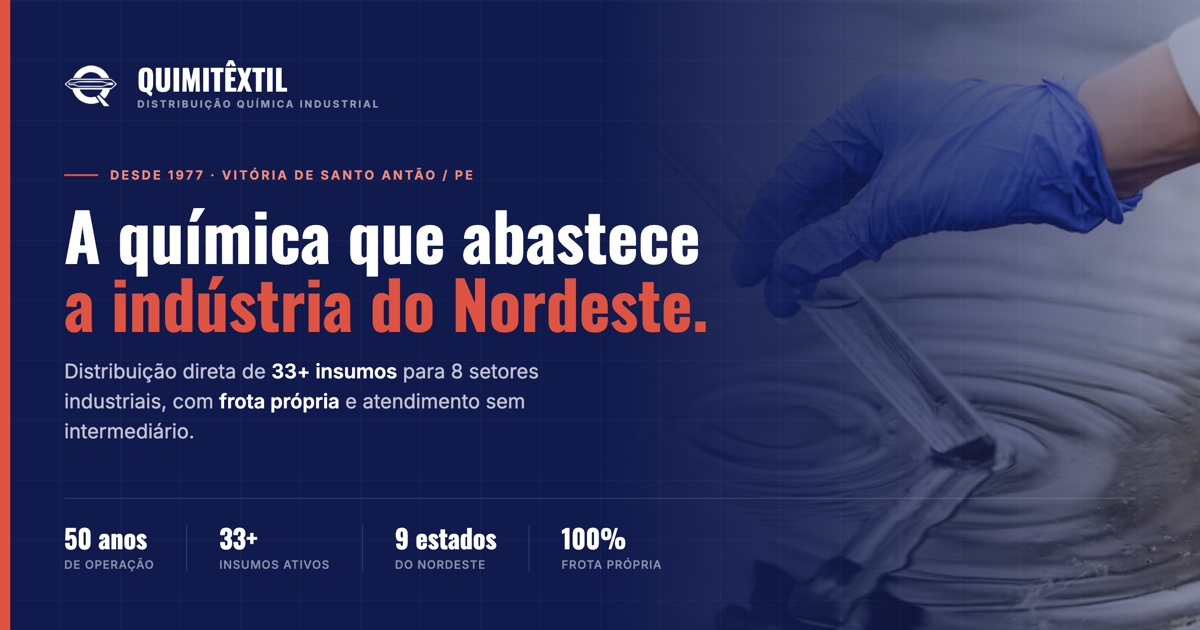
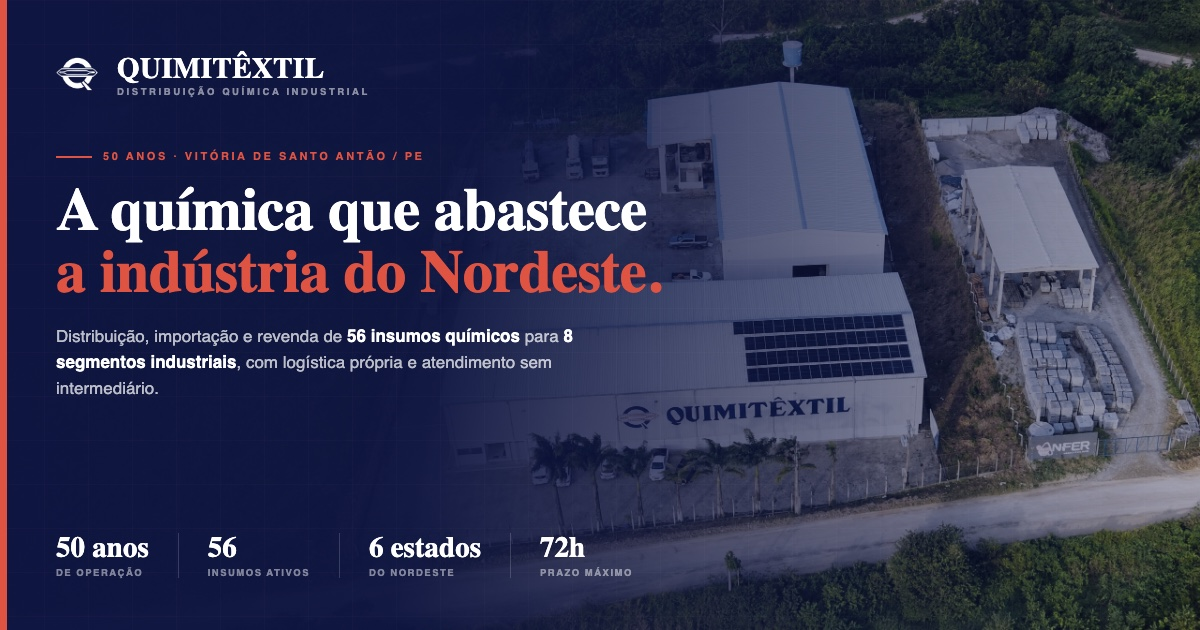
Atualiza a imagem e os textos de Open Graph
A prévia de link ainda trazia dados que já não valem: 33+ insumos,
9 estados e 100% frota própria, esta última justamente a afirmação
removida do site por não corresponder à operação.

- Nova arte usando a foto aérea real da sede no lado direito, atrás do
  degradê, no lugar da foto genérica de laboratório
- Números corrigidos: 56 insumos, 6 estados, entrega em até 72 horas
- Frota própria dá lugar a logística própria, alinhado ao restante
- Tipografia e cores do próprio site (Oswald, navy e laranja da marca),
  com a barra lateral e a textura de grade das seções escuras
- Descrições de description, og:description, twitter:description e
  og:image:alt reescritas com os dados atuais

diff --git a/index.html b/index.html
@@ -9,7 +9,7 @@
     <title>Quimitêxtil — Distribuição química industrial no Nordeste</title>
     <meta
       name="description"
-      content="Distribuidora de insumos químicos industriais no Nordeste há 50 anos. 33+ produtos para tratamento de água, têxtil, alimentício, saneantes, papel e celulose, farmacêutico, curtume e agropecuário, com frota própria."
+      content="Distribuidora de insumos químicos industriais no Nordeste há 50 anos. 56 produtos para tratamento de água, têxtil, alimentício, saneantes, papel e celulose, cosméticos e farmacêutico, curtume e agropecuário, com logística própria e entrega em até 72 horas."
     />
     <link rel="canonical" href="https://joaomcoutinho.github.io/quimitextil-site/" />
 
@@ -21,7 +21,7 @@
     <meta property="og:title" content="Quimitêxtil — Distribuição química industrial há 50 anos" />
     <meta
       property="og:description"
-      content="33+ insumos para 8 setores industriais, entregues com frota própria nos 9 estados do Nordeste. Sem intermediário."
+      content="56 insumos para 8 segmentos industriais, com logística própria e entrega em até 72 horas em 6 estados do Nordeste. Atendimento sem intermediário."
     />
     <meta property="og:image" content="https://joaomcoutinho.github.io/quimitextil-site/og-image.jpg" />
     <meta property="og:image:type" content="image/jpeg" />
@@ -29,7 +29,7 @@
     <meta property="og:image:height" content="630" />
     <meta
       property="og:image:alt"
-      content="Quimitêxtil — A química que abastece a indústria do Nordeste. 50 anos, 33+ insumos, 9 estados, 100% frota própria."
+      content="Vista aérea da sede da Quimitêxtil em Vitória de Santo Antão, Pernambuco, com os dados da operação: 50 anos, 56 insumos, 6 estados e entrega em até 72 horas."
     />
 
     <!-- Twitter / X -->
@@ -37,7 +37,7 @@
     <meta name="twitter:title" content="Quimitêxtil — Distribuição química industrial há 50 anos" />
     <meta
       name="twitter:description"
-      content="33+ insumos para 8 setores industriais, entregues com frota própria nos 9 estados do Nordeste. Sem intermediário."
+      content="56 insumos para 8 segmentos industriais, com logística própria e entrega em até 72 horas em 6 estados do Nordeste. Atendimento sem intermediário."
     />
     <meta name="twitter:image" content="https://joaomcoutinho.github.io/quimitextil-site/og-image.jpg" />
 
